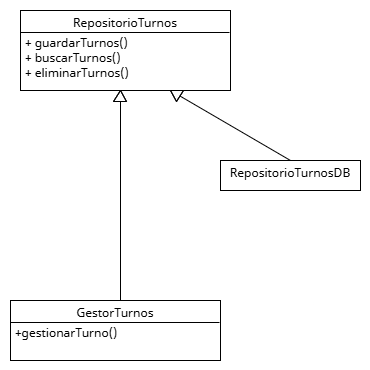
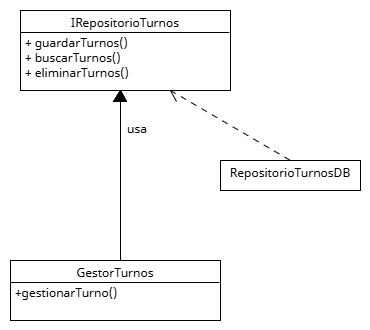
Corrijo principios SOLID

diff --git a/md/srp.md b/md/srp.md
@@ -25,10 +25,11 @@ En la vida real. un recepcionista que se encarga de agendar turnos, avisar a los
 ### Solución aplicada
 
 Aplico SRP dividiendo responsabilidades en clases especializadas:
+En el diseño actualizado, ValidadorTurnos actúa como un servicio independiente con responsabilidad exclusiva de validar reglas de negocio (como disponibilidad de horarios), mientras que GestorTurnos funciona como un coordinador que orquesta el flujo de creación del turno, apoyándose en otras clases. No existe herencia entre ellas, sino relaciones de uso (dependencia).
 
 * `Turno`: almacena los datos del turno (fecha, hora, paciente, médico).
 * `ValidadorTurnos`: valida disponibilidad de horarios para un nuevo turno.
-* `GestorTurnos`: orquesta la creación, validación y almacenamiento del turno.
+* `GestorTurnos`:  clase tipo "orquestador" o "servicio de aplicación" que coordina la creación del turno.
 
 De esta forma, cada clase tiene una sola razón para cambiar.
 

diff --git a/md/dip.md b/md/dip.md
@@ -20,8 +20,9 @@ Esto generaba un fuerte acoplamiento que dificultaba:
 ### Solución aplicada
 
 Se creó una interfaz `RepositorioTurnos`, que define los métodos necesarios para interactuar con los turnos (guardar, buscar, eliminar, etc.).
+En la implementación del principio DIP, `GestorDeTurnos` ya no depende directamente de `RepositorioTurnosDB`, sino que depende de una interfaz `IRepositorioTurnos`. Esto permite invertir la dirección de la dependencia y facilita la extensión, el testeo y el mantenimiento del sistema
 
-* `GestorDeTurnos` depende ahora de `RepositorioTurnos` y no de una implementación concreta.
+* `GestorDeTurnos` depende ahora de `IRepositorioTurnos` y no de una implementación concreta.
 * Implementaciones como `RepositorioTurnosDB` implementan esta interfaz.
 
 ## Diagrama UML
